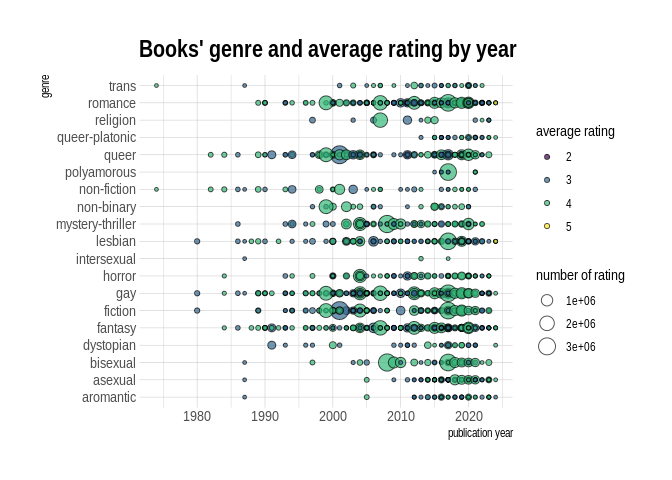
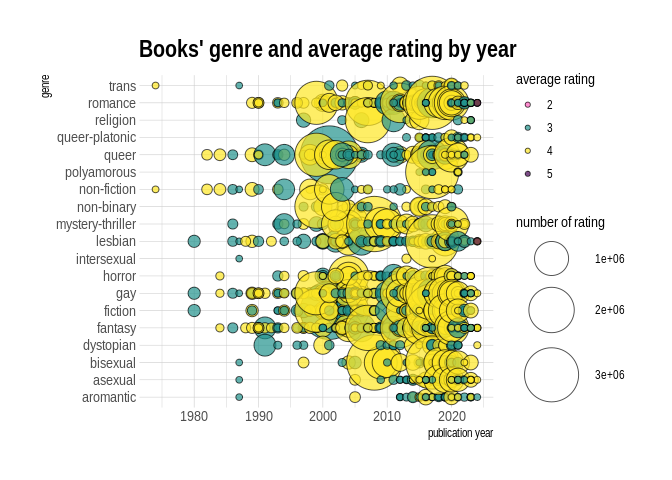
Downloading graphs - part 1

diff --git a/proposal/proposal.md b/proposal/proposal.md
@@ -248,12 +248,12 @@ of rating.
 
 ``` r
 Top_ten_ave <- queer_books_data %>% 
-  select(title, average_rating) %>% 
+  select(title, average_rating, num_ratings) %>% 
   arrange(desc(average_rating)) %>% 
   slice(1:10)
 
 bottom_ten_ave <- queer_books_data %>% 
-  select(title, average_rating) %>% 
+  select(title, average_rating, num_ratings) %>% 
   arrange((average_rating)) %>% 
   slice(1:10)
 
@@ -262,42 +262,34 @@ Top_ten_num <- queer_books_data %>%
   arrange(desc(num_ratings)) %>% 
   slice(1:10)
 
-bottom_ten_ave %>% 
-  left_join(Top_ten_num, by = "title")
+top_bottom_ten <- bind_rows(Top_ten_ave, bottom_ten_ave)
 ```
 
-    ## # A tibble: 10 × 3
-    ##    title                                            average_rating num_ratings
-    ##    <chr>                                                     <dbl>       <dbl>
-    ##  1 The Loveless Princess                                      2.8           NA
-    ##  2 This Song Is (Not) for You                                 3.04          NA
-    ##  3 We Awaken                                                  3.16          NA
-    ##  4 Ace of Hearts                                              3.18          NA
-    ##  5 That Inevitable Victorian Thing                            3.21          NA
-    ##  6 In My Dreams (Aces in Love #1)                             3.25          NA
-    ##  7 The Once and Future Queen, Vol. 1: Opening Moves           3.26          NA
-    ##  8 Before I Let Go                                            3.33          NA
-    ##  9 Overleveled, Underloved                                    3.33          NA
-    ## 10 Coffee Cake (Coffee Cake, #1)                              3.34          NA
+``` r
+#top_bottom_ten %>% 
+ # ggplot(aes(y = average_rating, x = num_ratings, fill = average_rating))+
+  #geom_density_ridges()+
+  #theme(legend.position = "none")
+```
 
 ``` r
 Top_ten_ave %>% 
   left_join(Top_ten_num, by = "title")
 ```
 
-    ## # A tibble: 10 × 3
-    ##    title                                              average_rating num_ratings
-    ##    <chr>                                                       <dbl>       <dbl>
-    ##  1 The Seemingly Impossible Love Life of Amanda Dean            5             NA
-    ##  2 No FREE Attention: How Women use The Possibility …           4.91          NA
-    ##  3 To a Darker Shore                                            4.79          NA
-    ##  4 Nonbinary                                                    4.78          NA
-    ##  5 The Midnight Strider (The Chronomancer Chronicles…           4.76          NA
-    ##  6 Thirteenth                                                   4.74          NA
-    ##  7 The Blue Codex (The Blue Codex, #1)                          4.7           NA
-    ##  8 Earthflown                                                   4.65          NA
-    ##  9 Heartstopper: Volume Four (Heartstopper, #4)                 4.61          NA
-    ## 10 Crooked Kingdom (Six of Crows, #2)                           4.6           NA
+    ## # A tibble: 10 × 4
+    ##    title                              average_rating num_ratings.x num_ratings.y
+    ##    <chr>                                       <dbl>         <dbl>         <dbl>
+    ##  1 The Seemingly Impossible Love Lif…           5               16            NA
+    ##  2 No FREE Attention: How Women use …           4.91           257            NA
+    ##  3 To a Darker Shore                            4.79            19            NA
+    ##  4 Nonbinary                                    4.78            51            NA
+    ##  5 The Midnight Strider (The Chronom…           4.76            17            NA
+    ##  6 Thirteenth                                   4.74            53            NA
+    ##  7 The Blue Codex (The Blue Codex, #…           4.7             10            NA
+    ##  8 Earthflown                                   4.65           172            NA
+    ##  9 Heartstopper: Volume Four (Hearts…           4.61        369882            NA
+    ## 10 Crooked Kingdom (Six of Crows, #2)           4.6         625376            NA
 
 #### Mutate year to decade
 
@@ -372,6 +364,18 @@ queer_books_data %>%
 ```
 
 ![](proposal_files/figure-gfm/change-binding-dacade-1.png)<!-- -->
+
+``` r
+queer_books_data %>%
+  ggplot(aes( x = originalyear_by_decade, fill = binding)) +
+  geom_bar(alpha = 0.7) +
+  scale_fill_viridis_d() +
+  labs(title = "Binding Format Frequency",
+       subtitle = "by Decade",
+       x = "Decade of Publication", y = "Number of Books") 
+```
+
+![](proposal_files/figure-gfm/unnamed-chunk-2-1.png)<!-- -->
 
 #### Visualise the change of binding formats by year
 
@@ -588,13 +592,14 @@ all_book_genre %>%
   ggplot(aes(x = all_genre, y = year_published, size = num_ratings, fill = rating_categories)) +
   geom_point(alpha=0.7, shape = 21, color = "black") +
   coord_flip() +
-  scale_fill_viridis_d() +
+  scale_fill_manual(values = c("#ff5dbc", "#21928c", "#fde725", "#440154")) +
   theme_ipsum() +
   labs(title = "Books' genre and average rating by year",
        x = "genre",
        y = "publication year",
        fill = "average rating",
-       size = "number of rating")
+       size = "number of rating") +
+  scale_size_continuous(range = c(2, 20))
 ```
 
     ## Warning: Removed 5 rows containing missing values or values outside the scale range
